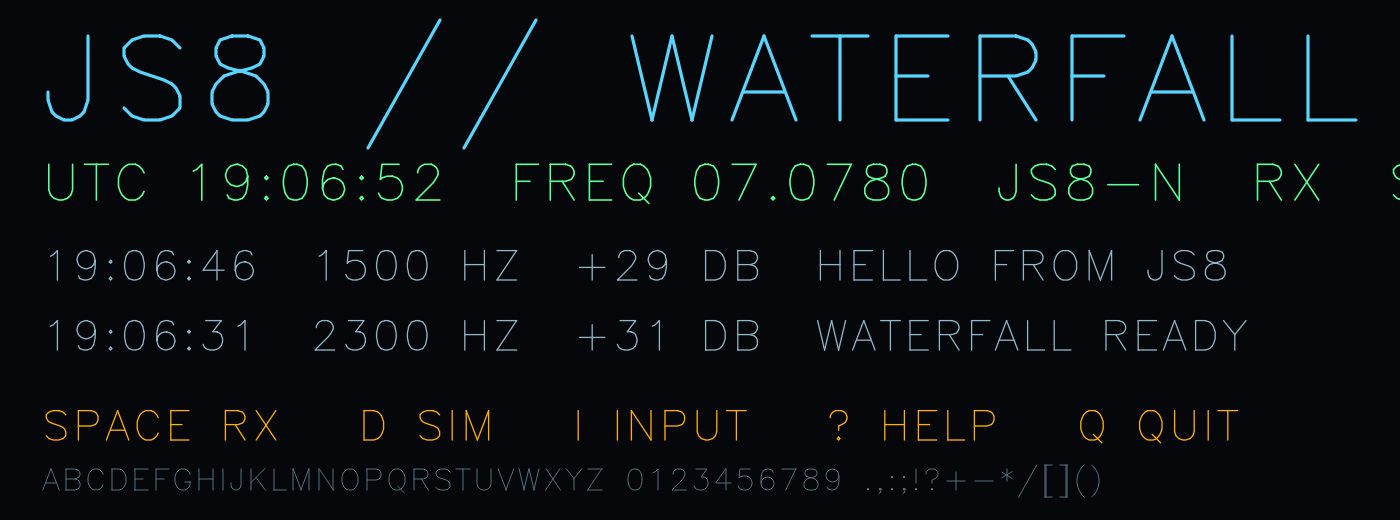
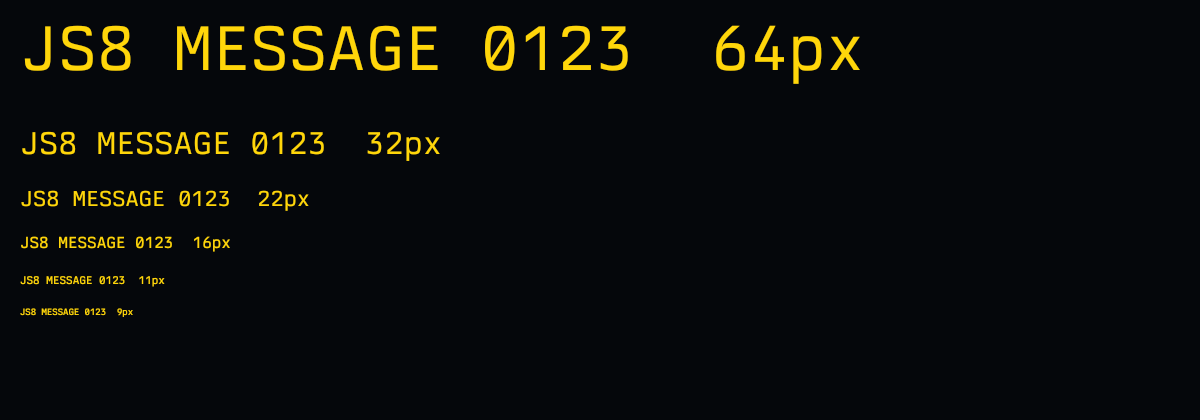
Use the Omarchy monospace font in the vector console

diff --git a/README.md b/README.md
@@ -6,7 +6,8 @@ A small JS8 receiver for Omarchy: audio from a radio interface, a full-screen
 vector console drawn with raylib, and JS8 Normal decodes from
 [gfsk8-modem](../gfsk8-modem). Qt owns the window and the Omarchy lifecycle;
 the console's vector status strip, spectrum trace, waterfall, ticker, and help
-are drawn by raylib and follow the Omarchy accent live.
+are drawn by raylib, follow the Omarchy accent live, and use Omarchy's
+configured monospaced typeface.
 
 This is a bootstrap, not a JS8Call replacement. It receives and decodes; it
 does not transmit, key a radio, or implement CAT control. Normal (15 s) is the
@@ -18,7 +19,7 @@ only submode wired up so far.
   the modem's 12 kHz, using the same FIR as gfsk8-modem's `js8rx` example.
 - Draws a 0–3 kHz waterfall with a 4096-point FFT, about 44 seconds of history.
 - Draws a vector status strip, live spectrum trace, waterfall frame/grid, and
-  a three-line decode ticker with the Hershey Roman Simplex stroke font.
+  a three-line decode ticker with the Omarchy monospaced font.
 - Decodes JS8 Normal at each 15-second UTC boundary on a worker thread, so the
   waterfall keeps moving while the modem searches.
 - Shows the decoded text, SNR, audio offset, and UTC time, and appends each
@@ -120,8 +121,8 @@ real traffic.
 | `src/audio.*` | PortAudio capture, 4:1 FIR decimator, 60 s ring, demo source |
 | `src/decoderworker.*` | Worker thread that runs the gfsk8 decoder once per period |
 | `src/spectrum.*` | 4096-point radix-2 FFT to 1024 bins over 0–3 kHz |
-| `src/strokefont.*` | Parser for the Hershey `.jhf` single-stroke vector font |
-| `src/tacticaldisplay.*` | Full-screen `QQuickFramebufferObject` vector console rendered by raylib's rlgl |
+| `src/tacticaldisplay.*` | Full-screen `QQuickFramebufferObject` vector console rendered by raylib's rlgl; also builds the Omarchy font atlas |
+| `src/strokefont.*` | Earlier Hershey `.jhf` stroke-font experiment; used by its test, not by the app |
 | `src/Main.qml` | Window, app shortcuts, and the single `TacticalDisplay` item |
 | `src/theme.*`, `src/translator.*` | Live Omarchy accent/rounding and language |
 
@@ -131,7 +132,7 @@ raylib has no supported API for drawing into somebody else's window, so the
 app does not try to run a second GLFW window beside Qt. `TacticalDisplay` is a
 `QQuickFramebufferObject`; its renderer calls raylib's own renderer (`rlgl`)
 with Qt's current OpenGL context and draws the entire console: vector lines,
-the Hershey text, and the waterfall texture. raylib does the visible work, and
+the text, and the waterfall texture. raylib does the visible work, and
 Qt keeps the window, theme, translations, and launcher integration.
 
 The modem runs on its own `QThread` because a full 60-second search can take
@@ -148,28 +149,26 @@ each demo decode is tagged `SIM`.
 
 ## Typography
 
-The tactical console font is **Hershey Roman Simplex**
-(`src/fonts/hershey/rowmans.jhf`), parsed by `src/strokefont.*` and drawn as
-single-stroke polylines rather than filled glyphs. The original Hershey glyphs
-are public domain; the `.jhf` distribution is permissively licensed with the
-acknowledgments reproduced in `src/fonts/hershey/NOTICE` and `LICENSE`.
+The console uses the monospaced font configured in Omarchy
+(`omarchy font current`, currently **TX-02**). Qt resolves the fixed font and
+rasterises it into an atlas; raylib draws the glyphs as textured quads. The
+atlas covers U+0020–U+00FF, which keeps `æ/ø/å` working; console labels remain
+short English/numeric abbreviations, and non-Latin device names may be blank.
+Restart the app after `omarchy font set` to pick up a different face.
 
-A font sample:
+![Omarchy monospace sample](docs/font-preview.png)
 
-![Hershey Roman Simplex preview](docs/font-preview.png)
-
-The font covers ASCII 32–126. The console uses short English/numeric labels
-(`FREQ`, `MODE`, `RX`, `SNR`, `UTC`); a translated UI can live in the settings
-overlay or use a separate text font if full Unicode is needed.
+The earlier Hershey Roman Simplex stroke-font experiment is preserved in
+`src/fonts/hershey/` and `src/strokefont.*`, with its test, but the app no
+longer links or ships it.
 
 ## Screenshot
 
-`docs/screenshot.png` was captured with the fallback accent (`#FFD60A`) and
-made-up demo content, so it does not depend on the current theme. It is the
-fullscreen console after a full waterfall period:
+`docs/screenshot.png` is the fullscreen console after a full waterfall period,
+using the current Omarchy theme and configured monospace font:
 
 ```sh
-HOME=$(mktemp -d) ./build/js8 --demo --screenshot docs/screenshot.png --wait 46
+./build/js8 --demo --screenshot docs/screenshot.png --wait 46
 ```
 
 ## Scope and next steps
